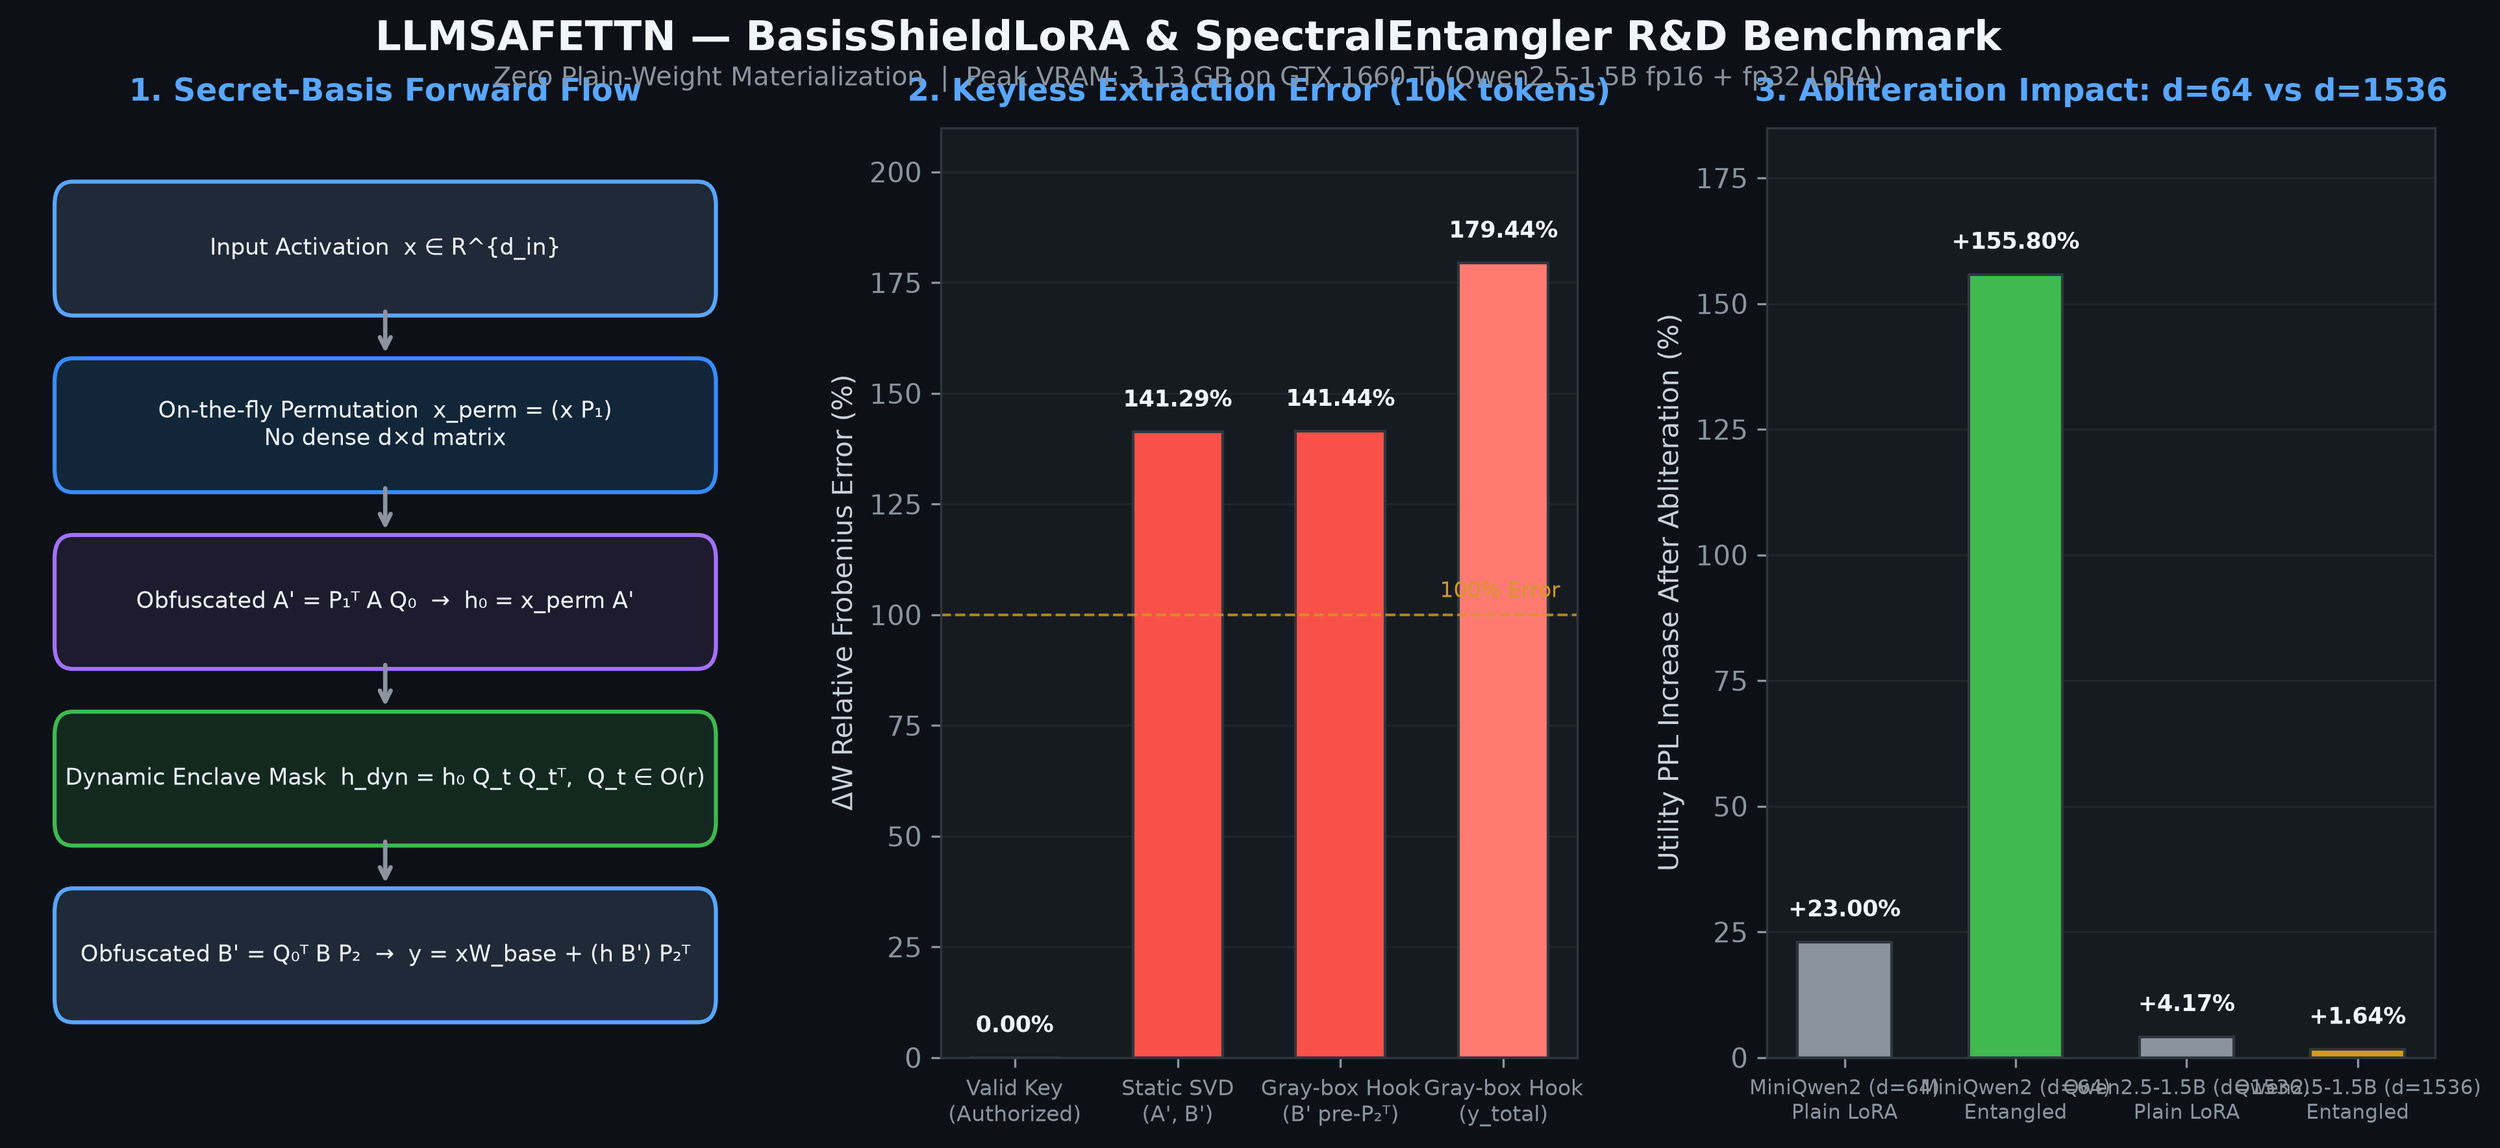
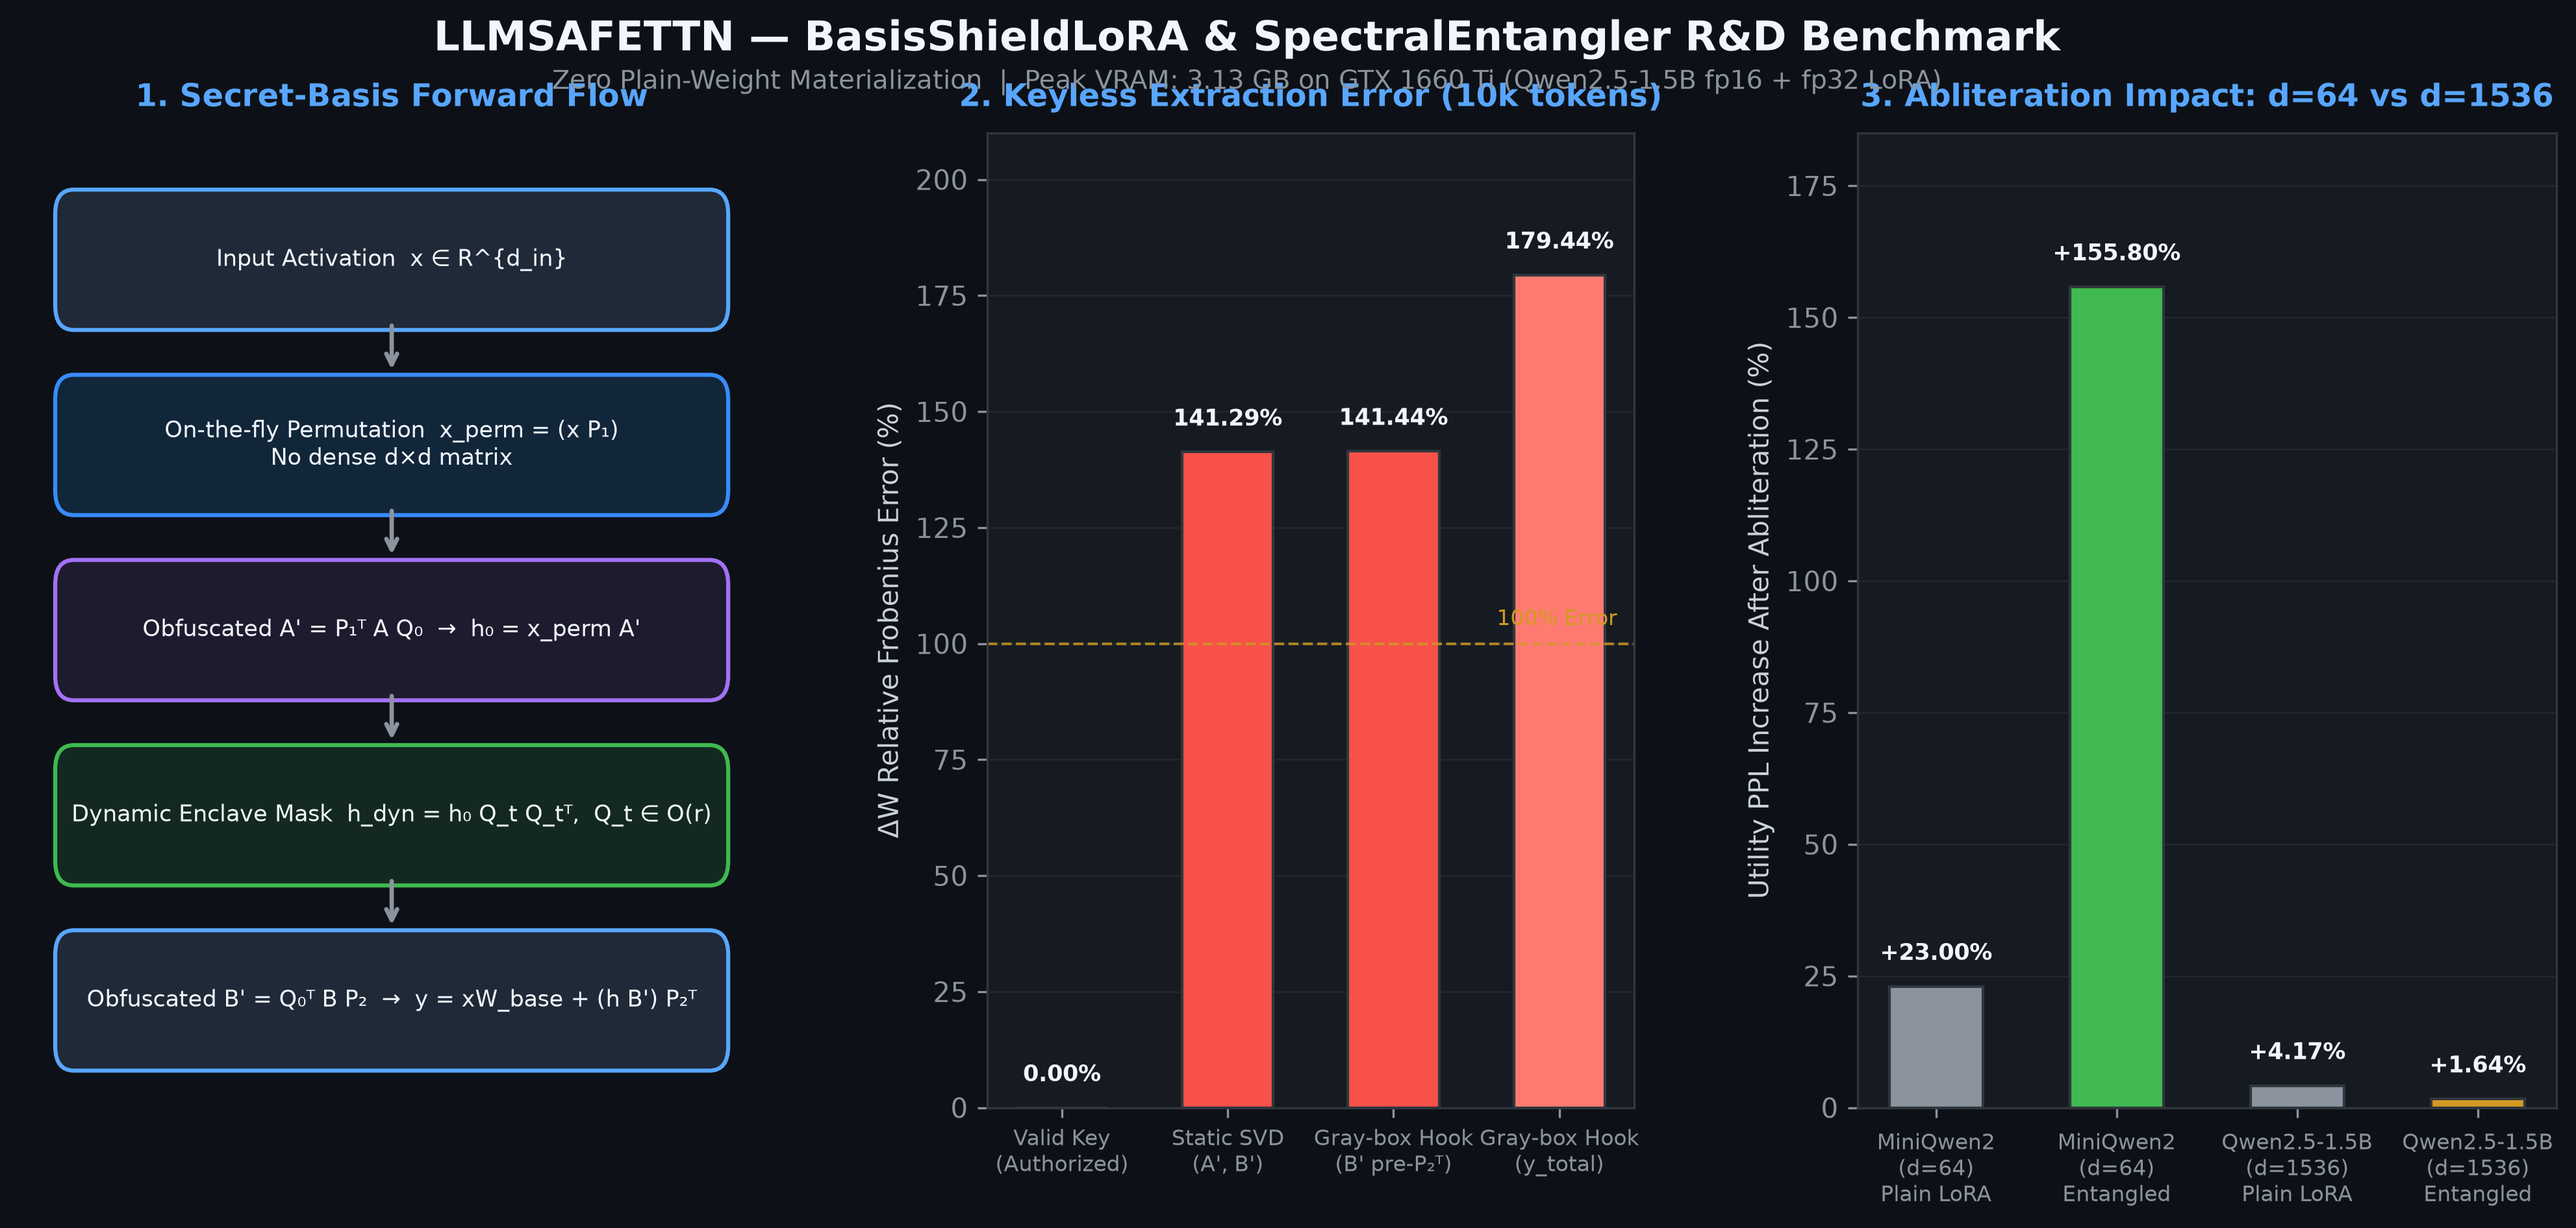
Fix x-axis label layout in hero_benchmark.png

diff --git a/scripts/generate_hero_visual.py b/scripts/generate_hero_visual.py
@@ -22,8 +22,8 @@ def main() -> None:
         }
     )
 
-    fig = plt.figure(figsize=(16, 6.2), dpi=300)
-    gs = fig.add_gridspec(1, 3, width_ratios=[1.15, 1.0, 1.05], wspace=0.28)
+    fig = plt.figure(figsize=(16.8, 6.5), dpi=300)
+    gs = fig.add_gridspec(1, 3, width_ratios=[1.15, 1.0, 1.08], wspace=0.32)
 
     fig.suptitle(
         "LLMSAFETTN — BasisShieldLoRA & SpectralEntangler R&D Benchmark",
@@ -121,19 +121,19 @@ def main() -> None:
     # --- Panel 3: Abliteration Scaling Comparison ---
     ax2 = fig.add_subplot(gs[0, 2])
     models = [
-        "MiniQwen2 (d=64)\nPlain LoRA",
-        "MiniQwen2 (d=64)\nEntangled",
-        "Qwen2.5-1.5B (d=1536)\nPlain LoRA",
-        "Qwen2.5-1.5B (d=1536)\nEntangled",
+        "MiniQwen2\n(d=64)\nPlain LoRA",
+        "MiniQwen2\n(d=64)\nEntangled",
+        "Qwen2.5-1.5B\n(d=1536)\nPlain LoRA",
+        "Qwen2.5-1.5B\n(d=1536)\nEntangled",
     ]
     ppl_deltas = [23.00, 155.80, 4.17, 1.64]
     bar_colors2 = ["#8b949e", "#3fb950", "#8b949e", "#d29922"]
 
-    bars2 = ax2.bar(models, ppl_deltas, color=bar_colors2, width=0.55, edgecolor="#30363d", linewidth=1.0)
+    bars2 = ax2.bar(models, ppl_deltas, color=bar_colors2, width=0.52, edgecolor="#30363d", linewidth=1.0)
     ax2.set_ylim(0, 185)
     ax2.set_ylabel("Utility PPL Increase After Abliteration (%)")
     ax2.set_title("3. Abliteration Impact: d=64 vs d=1536", fontsize=11.5, fontweight="bold", color="#58a6ff", pad=10)
-    ax2.tick_params(axis="x", labelsize=7.5)
+    ax2.tick_params(axis="x", labelsize=8.0, pad=5)
     ax2.grid(axis="y", color="#21262d", linestyle="-", linewidth=0.7)
     ax2.set_axisbelow(True)
 
